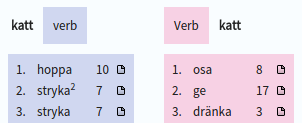
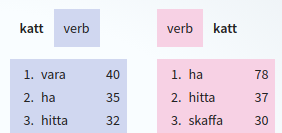
docs: update manual about freq/lmi sort

diff --git a/doc/user_manual_eng.md b/doc/user_manual_eng.md
@@ -268,7 +268,11 @@ syntactic relations to in the material, grouped by relation. For a verb, for exa
 ![Word picture in Korp](images/ordbild.png)
 
 By default, a maximum of 15 words are displayed for each relation, but to the right on the page there is an option to display more.
+
 The number next to each word indicates how many times the given relation is found in the selected material.
+To the right, there is an option to show and sort by a Lexicographer's Mutual Information (LMI) statistic instead of the absolute frequency.
+The LMI measures the frequency of a certain word pair in relation to the frequencies of each single word.
+Thus it disfavors words that have a high co-occurrence merely by being common in general, such as "be" and "have".
 
 By clicking on the small icon next to each word, you can bring up a new KWIC tab with all the sentences in which the selected relation occurs.
 

diff --git a/doc/user_manual_swe.md b/doc/user_manual_swe.md
@@ -274,7 +274,11 @@ verbet, och för ett substantiv visas utmärkande attribut, och verb som substan
 ![Ordbilden i Korp](images/ordbild.png)
 
 Som standard visas max 15 ord för varje relation, men till höger på sidan finns det inställningsmöjligheter för att visa fler.
+
 Siffran intill varje ord uppger hur många gånger just den relationen finns i det valda materialet.
+Till höger kan du välja att istället visa och sortera efter Lexicographer's Mutual Information (LMI).
+Det är ett värde som mäter frekvensen av ett givet ordpar i förhållande till frekvenserna av varje ord i paret.
+På så vis reduceras ord som samförekommer ofta bara för att de är vanliga i allmänhet, såsom "vara" och "ha".
 
 Genom att klicka på den lilla ikonen intill varje ord kan man få fram en ny KWIC-flik med alla de meningar i vilka vald relation förekommer.
 
